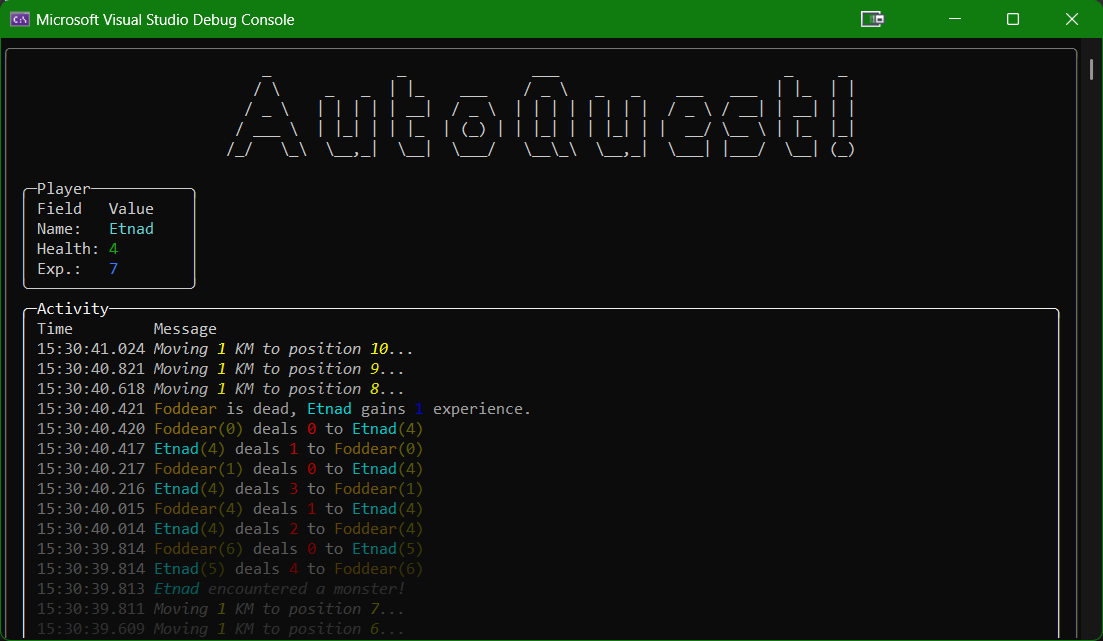
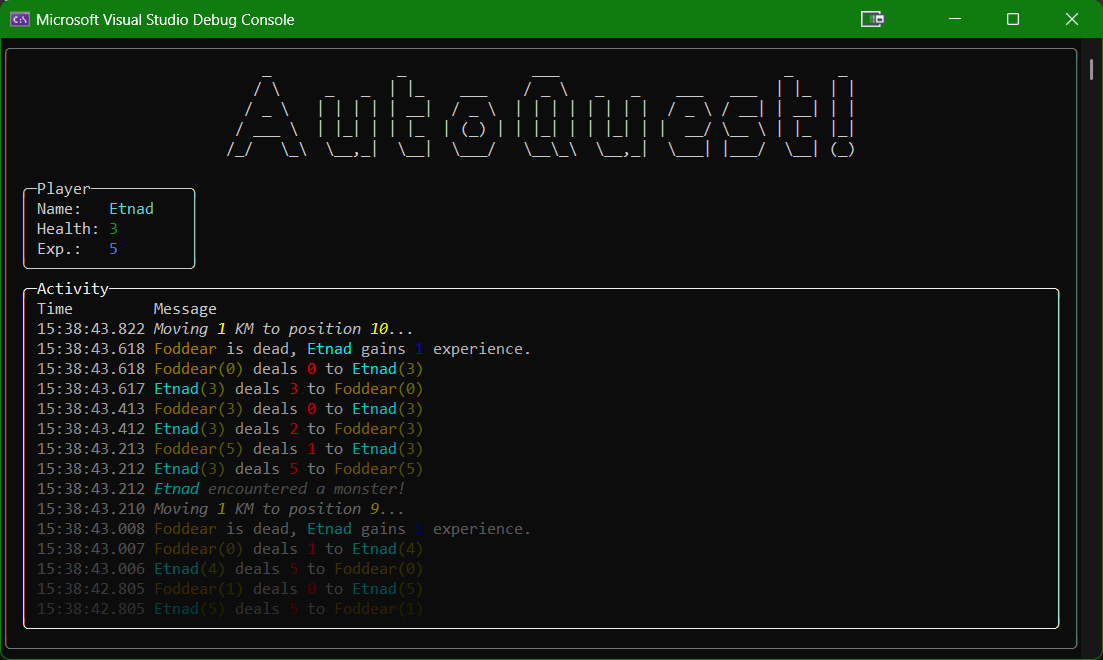
Fixed minor rendering issues

diff --git a/AutoQuest.Terminal/PresentationEngine.cs b/AutoQuest.Terminal/PresentationEngine.cs
@@ -62,10 +62,10 @@ namespace AutoQuest.Terminal
             View = engine.View;
 
             // add the player panel
-            var playerStats = new Table().NoBorder();
+            var playerStats = new Table().NoBorder()
+                                         .HideHeaders();
             playerStats.AddColumn(new TableColumn("Field"));
             playerStats.AddColumn(new TableColumn("Value"));
-            //playerStats.AddColumns(2);
 
             var player = engine.View.Player;
             playerStats.AddRow("Name:", BuildPlayerName);
